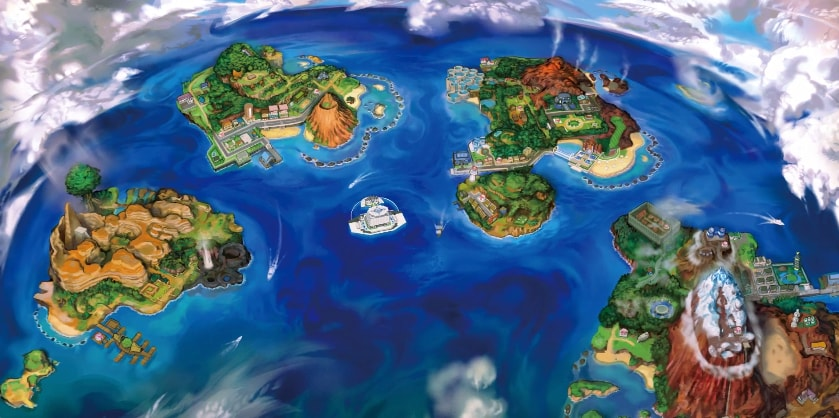
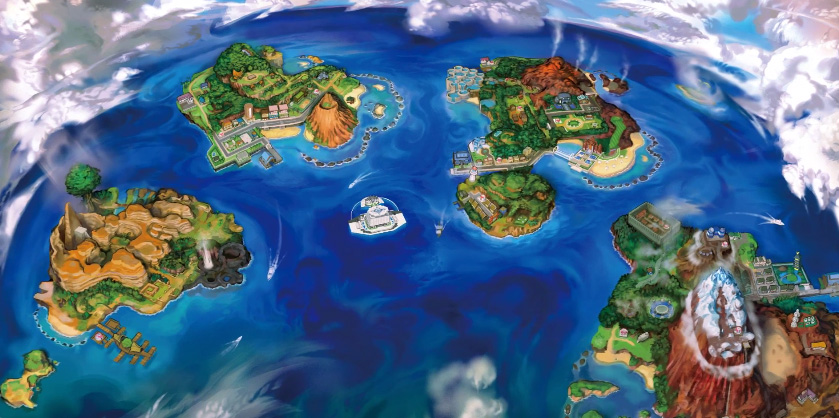
png to jpg

Changed region(s): [[0.093, 0.7775, 0.1549, 0.8086], [0.5268, 0.1555, 0.5578, 0.1866]]

diff --git a/style.css b/style.css
@@ -1,7 +1,7 @@
 /*---------------------------------------------*/
 /*         Pokemon Website CSS theme.          */
 /*                                             */
-/*               Build: #0031                  */
+/*               Build: #0036                  */
 /*                                             */
 /*           Author: Jayden Nguyen             */
 /*---------------------------------------------*/

diff --git a/CSSfiles/welcome.css b/CSSfiles/welcome.css
@@ -1,5 +1,5 @@
 .welcome {
-  background: url(../images/alola.png) no-repeat !important;
+  background: url(../images/alola.jpg) no-repeat !important;
   background-size: cover !important;
   background-position: center top !important;
   height: 520px;

diff --git a/CSSfiles/youtube.css b/CSSfiles/youtube.css
@@ -1,5 +1,5 @@
 .youtube {
-  background: url(../images/youtube.png) no-repeat !important;
+  background: url(../images/youtube.jpg) no-repeat !important;
   background-size: cover !important;
   height: 500px;
 }
